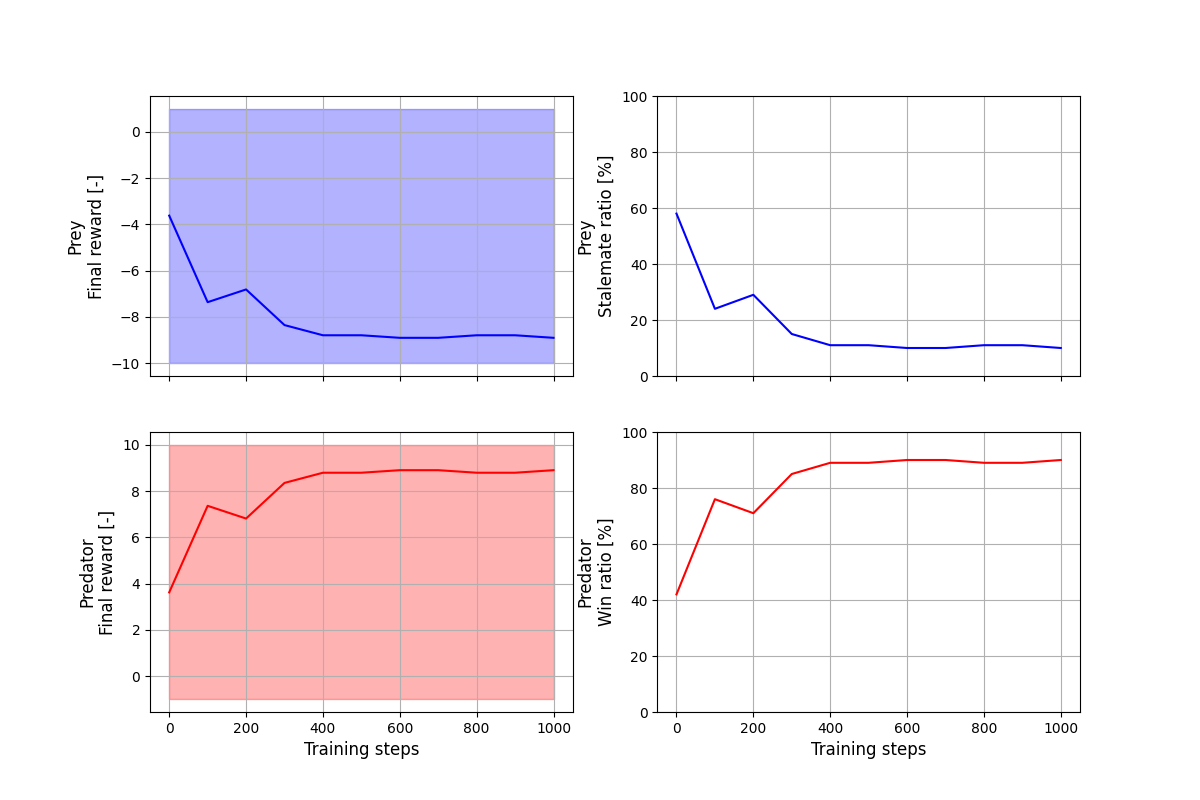
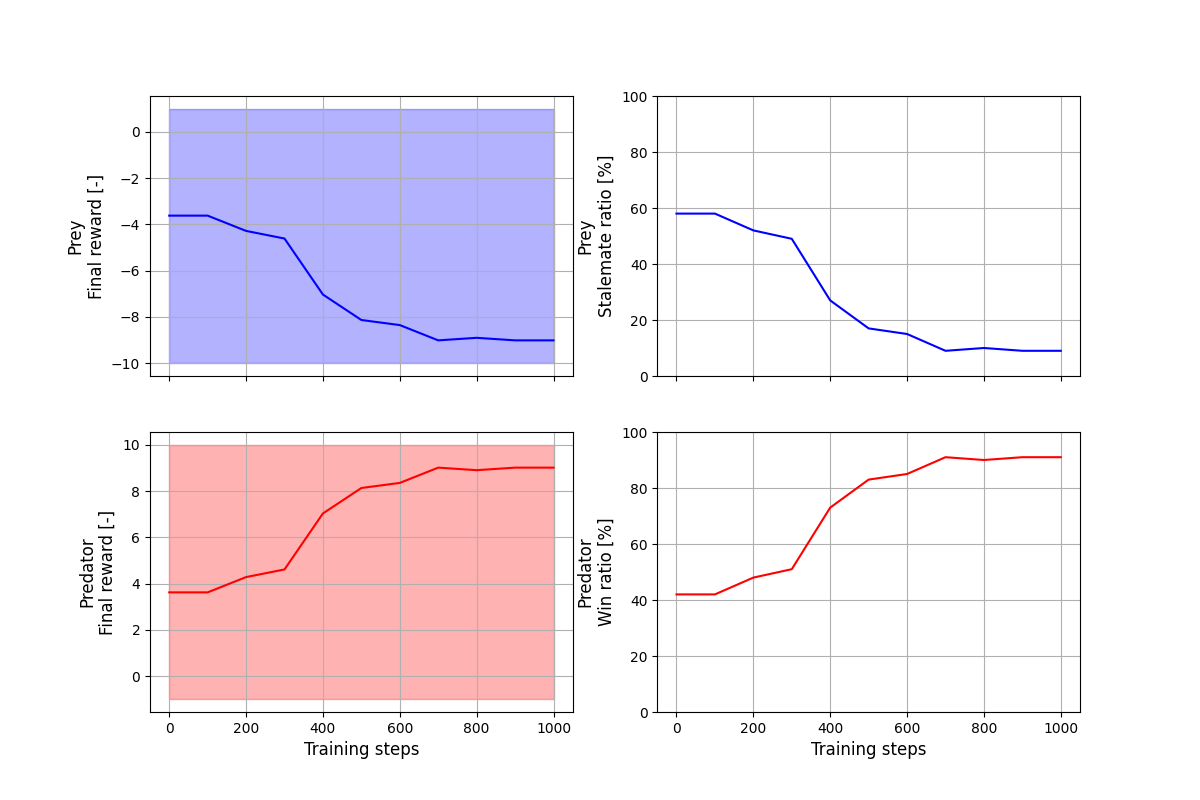
Great results in hunting

diff --git a/benchmarks/marl/hunting/hunting_gallery.py b/benchmarks/marl/hunting/hunting_gallery.py
@@ -23,45 +23,6 @@ class PGActorDiscrete(nn.Module):
         return actor_mean.reshape(n_actors, action_dim)
 
 
-class PGActorContinuous(nn.Module):
-    config: dict
-
-    @nn.compact
-    def __call__(self, x):
-
-        n_actors = 2
-        activation = nn.tanh
-
-        # actors = nn.Dense(256, kernel_init=orthogonal(jnp.sqrt(2)), bias_init=constant(0.0))(x)
-        # actors = activation(actors)
-        actors = nn.Dense(128, kernel_init=orthogonal(jnp.sqrt(2)), bias_init=constant(0.0))(x)
-        actors = activation(actors)
-        actors = nn.Dense(64, kernel_init=orthogonal(jnp.sqrt(2)), bias_init=constant(0.0))(actors)
-        actors = activation(actors)
-        actors = nn.Dense(n_actors, kernel_init=orthogonal(0.01), bias_init=constant(0.0))(actors)
-
-        return actors
-
-
-class PGCritic(nn.Module):
-    config: dict
-
-    @nn.compact
-    def __call__(self, x):
-
-        n_critics = 2
-        activation = nn.tanh
-
-        critics = nn.Dense(128, kernel_init=orthogonal(jnp.sqrt(2)), bias_init=constant(0.0))(x)
-        critics = activation(critics)
-        critics = nn.Dense(64, kernel_init=orthogonal(jnp.sqrt(2)), bias_init=constant(0.0))(critics)
-        critics = activation(critics)
-        critics = nn.Dense(n_critics, kernel_init=orthogonal(1.0), bias_init=constant(0.0))(critics)
-
-        return critics.squeeze()
-
-
-
 # class PGActorContinuous(nn.Module):
 #     config: dict
 #
@@ -71,21 +32,15 @@ class PGCritic(nn.Module):
 #         n_actors = 2
 #         activation = nn.tanh
 #
+#         # actors = nn.Dense(256, kernel_init=orthogonal(jnp.sqrt(2)), bias_init=constant(0.0))(x)
+#         # actors = activation(actors)
 #         actors = nn.Dense(128, kernel_init=orthogonal(jnp.sqrt(2)), bias_init=constant(0.0))(x)
 #         actors = activation(actors)
 #         actors = nn.Dense(64, kernel_init=orthogonal(jnp.sqrt(2)), bias_init=constant(0.0))(actors)
 #         actors = activation(actors)
-#         actors1 = nn.Dense(1, kernel_init=orthogonal(0.01), bias_init=constant(0.0))(actors)
+#         actors = nn.Dense(n_actors, kernel_init=orthogonal(0.01), bias_init=constant(0.0))(actors)
 #
-#         actors = nn.Dense(128, kernel_init=orthogonal(jnp.sqrt(2)), bias_init=constant(0.0))(x)
-#         actors = activation(actors)
-#         actors = nn.Dense(64, kernel_init=orthogonal(jnp.sqrt(2)), bias_init=constant(0.0))(actors)
-#         actors = activation(actors)
-#         actors2 = nn.Dense(1, kernel_init=orthogonal(0.01), bias_init=constant(0.0))(actors)
-#
-#         actors = jnp.stack((actors1, actors2))
-#
-#         return actors.squeeze()
+#         return actors
 #
 #
 # class PGCritic(nn.Module):
@@ -101,15 +56,60 @@ class PGCritic(nn.Module):
 #         critics = activation(critics)
 #         critics = nn.Dense(64, kernel_init=orthogonal(jnp.sqrt(2)), bias_init=constant(0.0))(critics)
 #         critics = activation(critics)
-#         critics1 = nn.Dense(1, kernel_init=orthogonal(1.0), bias_init=constant(0.0))(critics)
-#
-#         critics = nn.Dense(128, kernel_init=orthogonal(jnp.sqrt(2)), bias_init=constant(0.0))(x)
-#         critics = activation(critics)
-#         critics = nn.Dense(64, kernel_init=orthogonal(jnp.sqrt(2)), bias_init=constant(0.0))(critics)
-#         critics = activation(critics)
-#         critics2 = nn.Dense(1, kernel_init=orthogonal(1.0), bias_init=constant(0.0))(critics)
-#
-#         critics = jnp.stack((critics1, critics2))
+#         critics = nn.Dense(n_critics, kernel_init=orthogonal(1.0), bias_init=constant(0.0))(critics)
 #
 #         return critics.squeeze()
-#
+
+
+
+class PGActorContinuous(nn.Module):
+    config: dict
+
+    @nn.compact
+    def __call__(self, x):
+
+        n_actors = 2
+        activation = nn.tanh
+
+        actors = nn.Dense(128, kernel_init=orthogonal(jnp.sqrt(2)), bias_init=constant(0.0))(x)
+        actors = activation(actors)
+        actors = nn.Dense(64, kernel_init=orthogonal(jnp.sqrt(2)), bias_init=constant(0.0))(actors)
+        actors = activation(actors)
+        actors1 = nn.Dense(1, kernel_init=orthogonal(0.01), bias_init=constant(0.0))(actors)
+
+        actors = nn.Dense(128, kernel_init=orthogonal(jnp.sqrt(2)), bias_init=constant(0.0))(x)
+        actors = activation(actors)
+        actors = nn.Dense(64, kernel_init=orthogonal(jnp.sqrt(2)), bias_init=constant(0.0))(actors)
+        actors = activation(actors)
+        actors2 = nn.Dense(1, kernel_init=orthogonal(0.01), bias_init=constant(0.0))(actors)
+
+        actors = jnp.stack((actors1, actors2))
+
+        return actors.squeeze()
+
+
+class PGCritic(nn.Module):
+    config: dict
+
+    @nn.compact
+    def __call__(self, x):
+
+        n_critics = 2
+        activation = nn.tanh
+
+        critics = nn.Dense(128, kernel_init=orthogonal(jnp.sqrt(2)), bias_init=constant(0.0))(x)
+        critics = activation(critics)
+        critics = nn.Dense(64, kernel_init=orthogonal(jnp.sqrt(2)), bias_init=constant(0.0))(critics)
+        critics = activation(critics)
+        critics1 = nn.Dense(1, kernel_init=orthogonal(1.0), bias_init=constant(0.0))(critics)
+
+        critics = nn.Dense(128, kernel_init=orthogonal(jnp.sqrt(2)), bias_init=constant(0.0))(x)
+        critics = activation(critics)
+        critics = nn.Dense(64, kernel_init=orthogonal(jnp.sqrt(2)), bias_init=constant(0.0))(critics)
+        critics = activation(critics)
+        critics2 = nn.Dense(1, kernel_init=orthogonal(1.0), bias_init=constant(0.0))(critics)
+
+        critics = jnp.stack((critics1, critics2))
+
+        return critics.squeeze()
+

diff --git a/benchmarks/marl/hunting/hunting_env.py b/benchmarks/marl/hunting/hunting_env.py
@@ -43,8 +43,6 @@ class EnvParams:
     caught_reward: float = 10.
     x_lims: Tuple[float, float] = (0., 1.)
     y_lims: Tuple[float, float] = (0., 1.)
-    # x_lims: Tuple[float, float] = (0., .5)
-    # y_lims: Tuple[float, float] = (0., .5)
 
 
 class HuntingBase(environment.Environment):
@@ -53,8 +51,8 @@ class HuntingBase(environment.Environment):
         self.n_actors = 2
 
     def get_obs(self, state: EnvState) -> STATE:
-        # return jnp.hstack((jnp.expand_dims(state.time, axis=-1), state.positions.reshape(1, -1)), dtype=jnp.float32)
-        return jnp.hstack((jnp.expand_dims(state.time, axis=-1), state.positions.reshape(1, -1), jnp.expand_dims(state.distance, axis=(0, -1))), dtype=jnp.float32)
+        return jnp.hstack((jnp.expand_dims(state.time, axis=-1), state.positions.reshape(1, -1)), dtype=jnp.float32)
+        # return jnp.hstack((jnp.expand_dims(state.time, axis=-1), state.positions.reshape(1, -1), jnp.expand_dims(state.distance, axis=(0, -1))), dtype=jnp.float32)
         # return state.positions.flatten()
 
     def reset_env(self, key: chex.PRNGKey, env_params: Optional[EnvParams] = None) -> Tuple[STATE, EnvState]:
@@ -142,7 +140,8 @@ class HuntingBase(environment.Environment):
     def _directions(self, actions: ACTIONS) -> DIRECTIONS:
         raise NotImplementedError
 
-    def render(self, positions: POSITIONS, actions: ACTIONS, values: REWARDS, env_params: EnvParams) -> plt.Figure:
+    def render(self, time: Float[Array, "1"], positions: POSITIONS, actions: ACTIONS, values: REWARDS,
+               env_params: EnvParams) -> plt.Figure:
 
         positions = positions.squeeze()
         actions = actions.squeeze()
@@ -156,6 +155,7 @@ class HuntingBase(environment.Environment):
         yticks = jnp.round(jnp.linspace(min(env_params.y_lims), max(env_params.y_lims), 6), 1)
 
         fig, ax = plt.subplots(figsize=(6, 6))
+        fig.suptitle("Time={t:.2f}sec".format(t=time), fontsize=14)
         ax.scatter(positions[0, 0], positions[0, 1], c="b", s=40, label="Prey")
         ax.scatter(positions[1, 0], positions[1, 1], c="r", s=80, label="Predator")
         ax.arrow(positions[0, 0], positions[0, 1], dx[0], dy[0], color="b", linewidth=1)
@@ -177,10 +177,10 @@ class HuntingBase(environment.Environment):
 
         return fig
 
-    def animate(self, positions: POSITIONS, actions: ACTIONS, values: REWARDS, env_params: EnvParams, gif_path: str,
-                export_pdf: bool = False) -> None:
+    def animate(self, times: Float[Array, "n_steps"], positions: POSITIONS, actions: ACTIONS, values: REWARDS,
+                env_params: EnvParams, gif_path: str, export_pdf: bool = False) -> None:
 
-        figs = list(map(lambda x, y, z: self.render(x, y, z, env_params), positions, actions, values))
+        figs = list(map(lambda w, x, y, z: self.render(w, x, y, z, env_params), times, positions, actions, values))
 
         image_frames = []
         for fig in figs:

diff --git a/benchmarks/marl/hunting/hunting_continuous_ippo.py b/benchmarks/marl/hunting/hunting_continuous_ippo.py
@@ -117,7 +117,7 @@ if __name__ == "__main__":
         checkpoint_dir = "/mnt/c/Users/mavritsa/Repositories/jax-agents/benchmarks/marl/hunting/checkpoints/ippo/continuous"
 
     config = IPPOConfig(
-        n_steps=1_000,
+        n_steps=5_000,
         batch_size=256,
         minibatch_size=16,
         rollout_length=500,
@@ -136,7 +136,7 @@ if __name__ == "__main__":
 
     hyperparams = HyperParameters(
         gamma=0.99,
-        eps_clip=0.10,
+        eps_clip=0.20,
         kl_threshold=1e-5,
         gae_lambda=0.97,
         ent_coeff=0.2,
@@ -152,7 +152,6 @@ if __name__ == "__main__":
     rng = jax.random.PRNGKey(42)
     rng_train, rng_eval = jax.random.split(rng)
     runner, training_metrics = jax.block_until_ready(ippo.train(rng_train, hyperparams))
-    # with jax.disable_jit(True): runner, training_metrics = jax.block_until_ready(ippo.train(rng_train, hyperparams))
     eval_metrics = jax.block_until_ready(ippo.eval(rng_eval, runner.actor_training, n_evals=16))
 
     training_plot_path = r"figures/continuous/ippo_continuous_policy_training_{steps}steps.png".format(steps=config.n_steps)
@@ -189,5 +188,6 @@ if __name__ == "__main__":
     print("Exported csv")
 
     gif_path = r"figures/continuous/ippo_continuous_policy_{steps}steps.gif".format(steps=config.n_steps)
-    env.animate(render_metrics["positions"], render_metrics["actions"], render_metrics["values"], env_params, gif_path, export_pdf=True)
+    env.animate(render_metrics["time"].squeeze(), render_metrics["positions"], render_metrics["actions"],
+                render_metrics["values"], env_params, gif_path, export_pdf=True)
 
